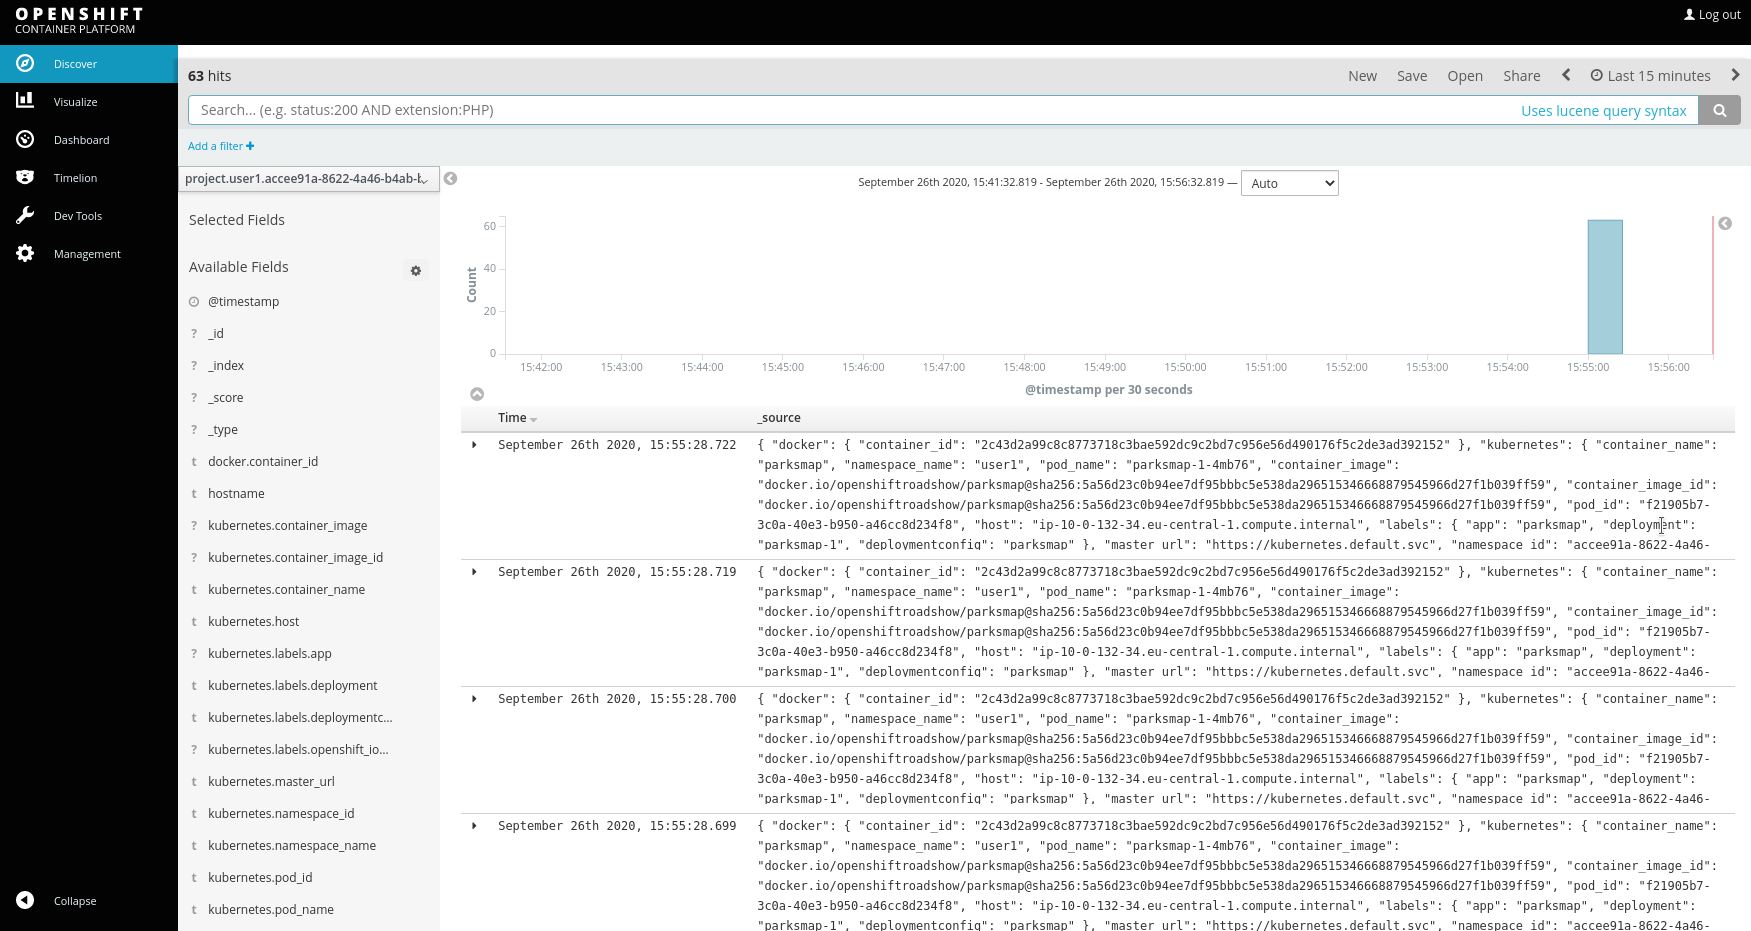
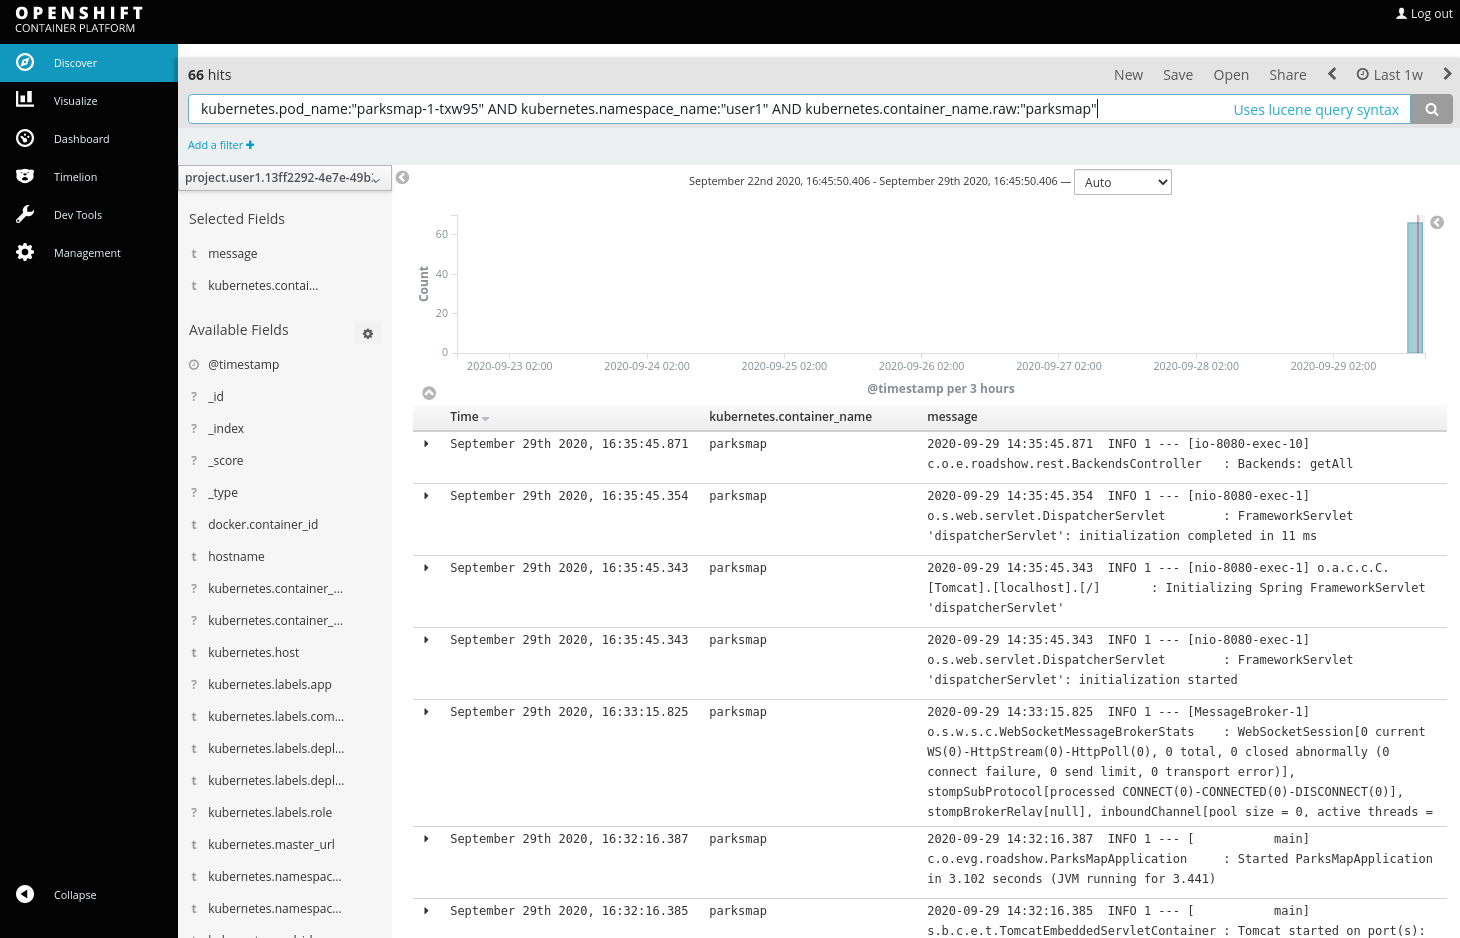
[CI] Publish Documentation for 0b7447ebd9024431b3e2d552cca2a23ccdc6de8a - 0b7447ebd9024431b3e2d552cca2a23ccdc6de8a 🚀

diff --git a/rhs-openshift-starter-guides/parksmap-logging.html b/rhs-openshift-starter-guides/parksmap-logging.html
@@ -553,12 +553,17 @@ insufficient.</p>
 Elasticsearch, Fluentd, and Kibana (EFK).</p>
 </div>
 <div class="paragraph">
-<p>In the Administrator perspective, click <strong>Monitoring &#8594; Logging</strong> from the left navigation.</p>
+<p>To view aggregated logging from Kibana, click to <strong>Show in Kibana</strong> link from <strong>Log</strong> tab as shown:</p>
+</div>
+<div class="imageblock">
+<div class="content">
+<img src="_images/images/parksmap-logging-show-in-kibana.png" alt="Show Logs in Kibana">
+</div>
 </div>
 <div class="paragraph">
 <p>Clicking this link takes you to the Kibana web interface. This interface is
 secured with OpenShift&#8217;s role-based access controls, so you can only see logs
-for projects that you have access to. You will need to accept the SSL certificate. If you are prompted to authenticate, use the same credentials as with OpenShift.</p>
+for projects that you have access to. If you are prompted to authenticate, use the same credentials as with OpenShift and when prompted the first time, authorize Access to kibana service account to access your account clicking on <strong>Allow selected permission</strong>.</p>
 </div>
 <div class="imageblock">
 <div class="content">
